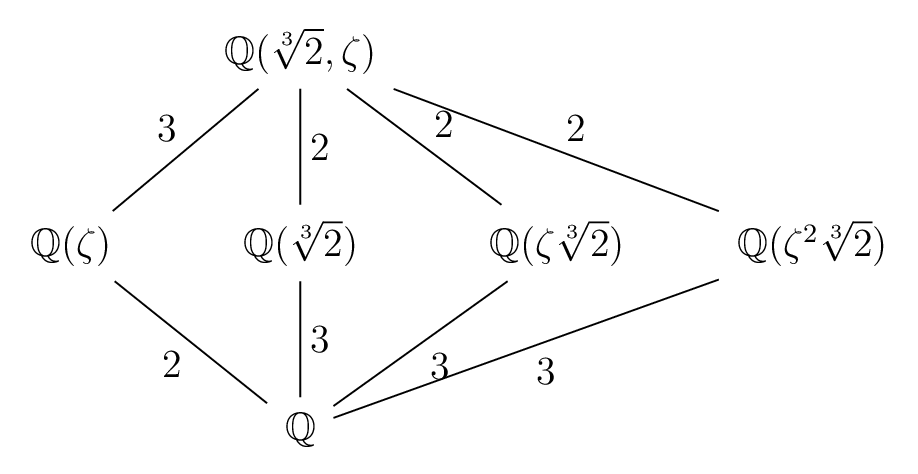
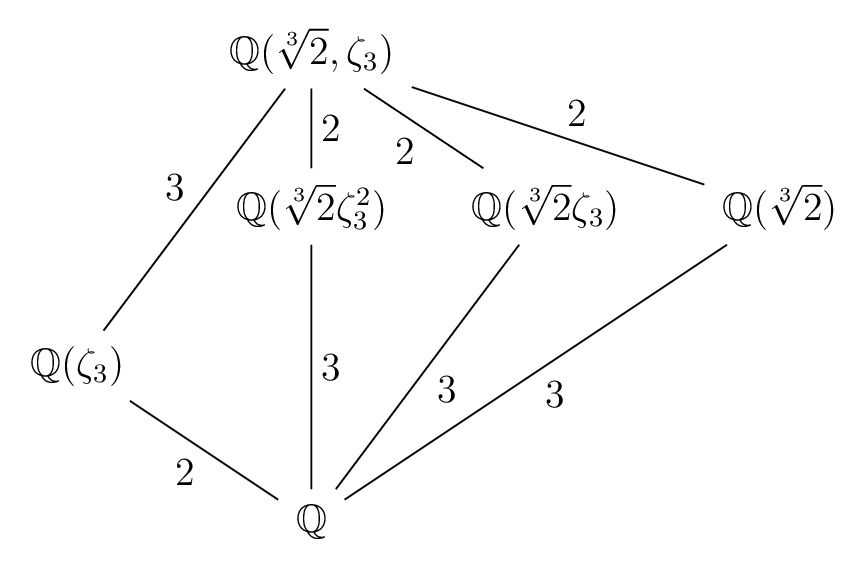
tweaks

diff --git a/app/static/css/variables.css b/app/static/css/variables.css
@@ -49,9 +49,9 @@
     --blue: blue;
     --blue-darkmode: cyan;
     --dimgray: dimgray;
-    --dimgray-darkmode: #c4bcb1;              /* 35 , 10 , 77  */ /* (try to get to h = 36 on grays to mimic original DarkReader */
+    --dimgray-darkmode: #c7bfb3;              /* 36 , 10 , 78  */ /* (try to get to h = 36 on grays to mimic original DarkReader) */
     --dimmergray: #282828;
-    --dimmergray-darkmode: #d9d4cc;         /* 37 , 6  , 85  */
+    --dimmergray-darkmode: #d9d4cc;           /* 37 , 6  , 85  */
     --gray: gray;
     --gray-darkmode: #c7c1b7;                 /* 38 , 8  , 78  */
     --lightgray: lightgray;
